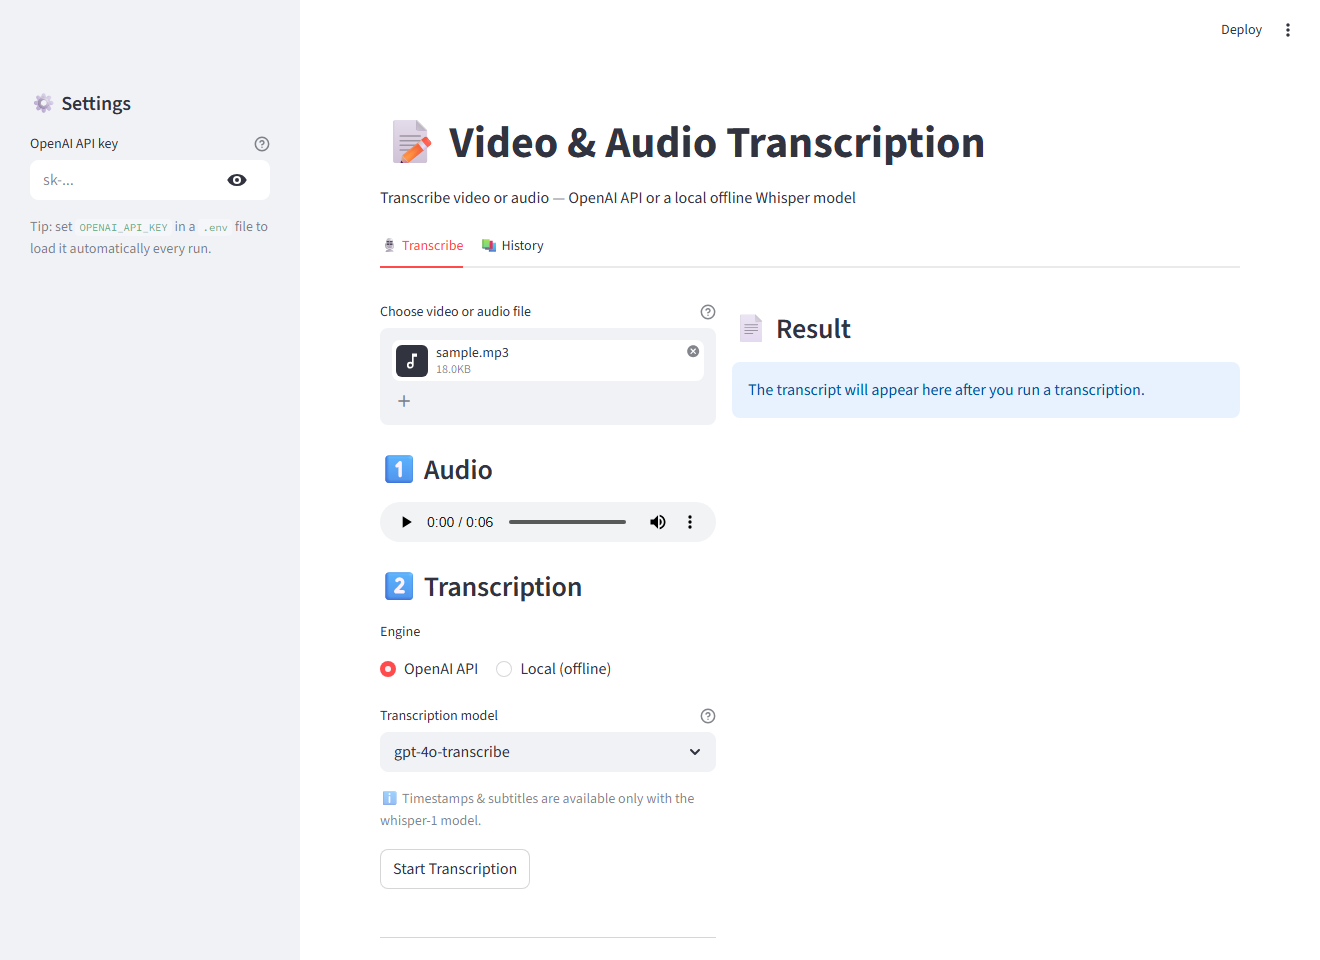
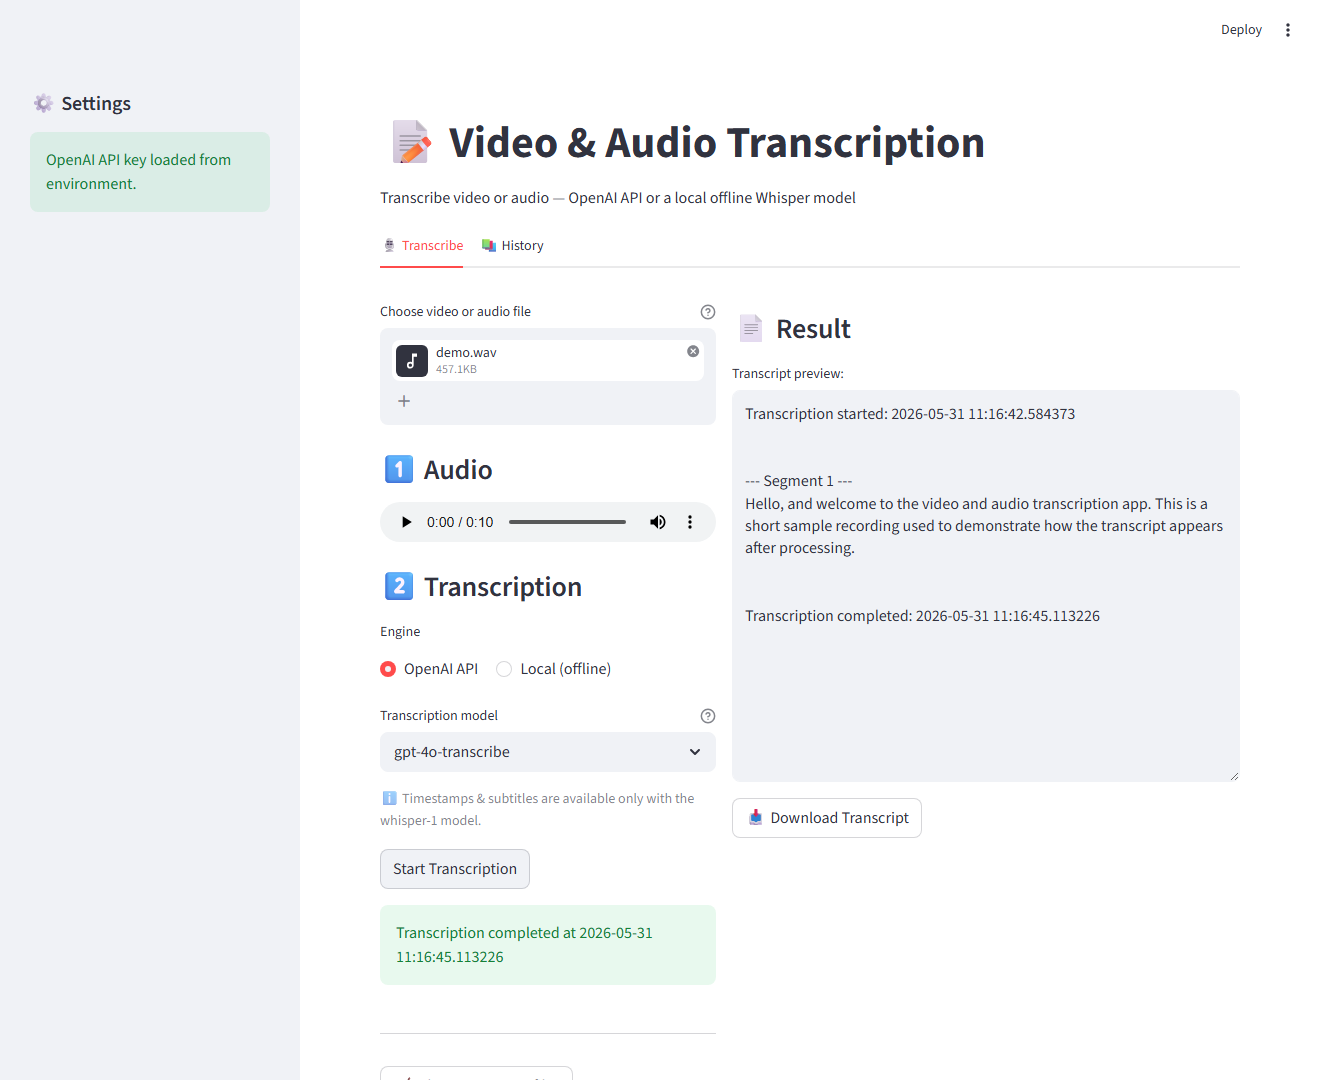
docs: show a real transcript in the transcribe screenshot
Re-capture the transcribe screenshot after running an actual transcription
so the Result panel shows real (neutral, TTS-generated) output, not just
the controls.

diff --git a/README.md b/README.md
@@ -25,7 +25,7 @@ A Streamlit web app that transcribes speech to text — using either the **OpenA
 
 ## Screenshots 📸
 
-| Upload & flexible API key | OpenAI API or offline engine | Persistent history |
+| Upload & flexible API key | Engine choice & live transcript | Persistent history |
 | --- | --- | --- |
 | ![Home](docs/screenshots/home.png) | ![Transcribe](docs/screenshots/transcribe.png) | ![History](docs/screenshots/history.png) |
 
